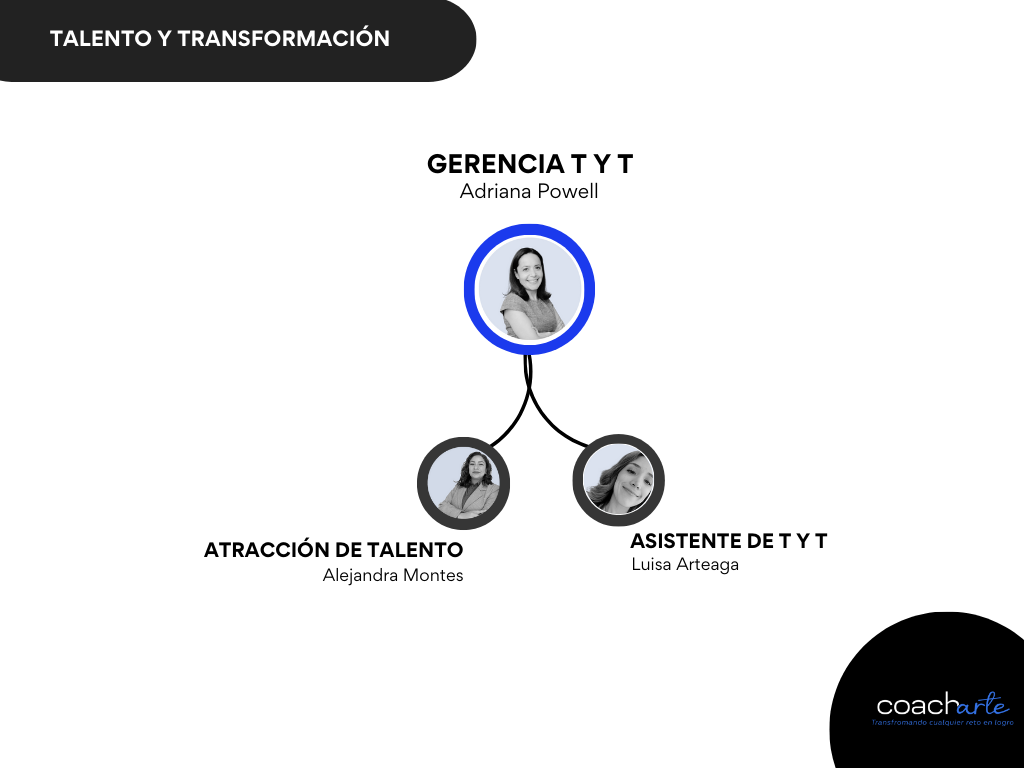
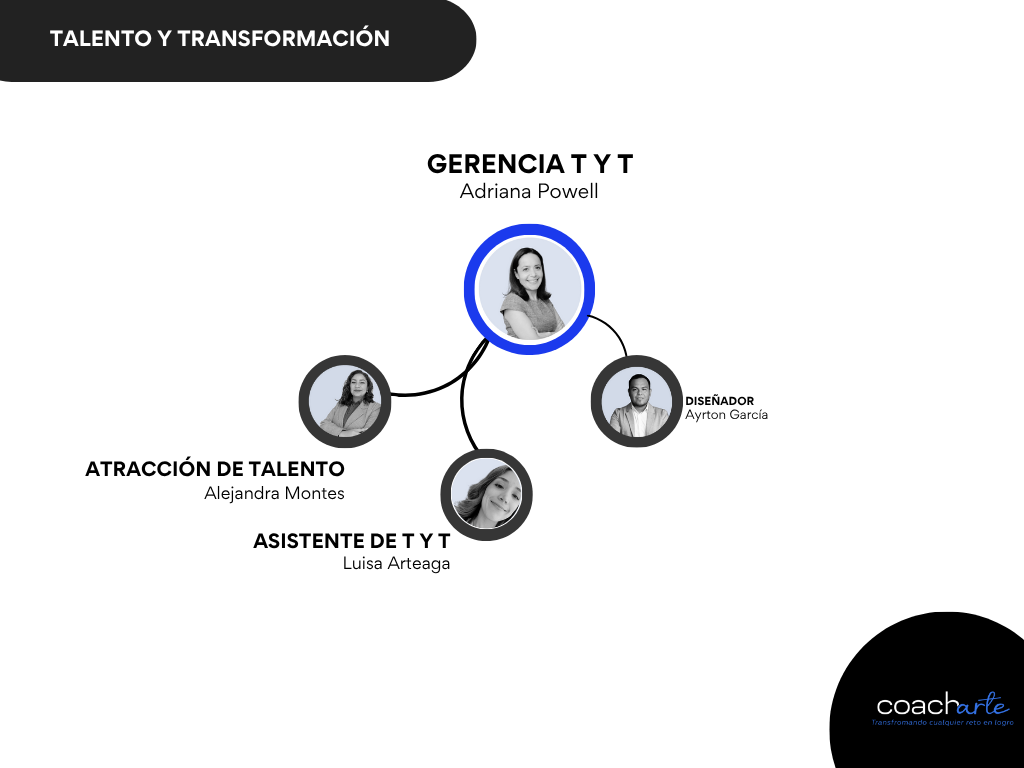
actualizacion de organigramas Octubre 2025

Changed region(s): [[0.0625, 0.4375, 0.5312, 0.7812], [0.5, 0.4375, 0.8125, 0.75]]

diff --git a/apps/frontend/src/app/organigrama/page.tsx b/apps/frontend/src/app/organigrama/page.tsx
@@ -39,56 +39,63 @@ const organigramas = [
     title: "Dirección General",
     description: "Estructura de la Dirección General liderada por Luis Pascual",
     image: "/assets/organigrama_1.png",
-    lastUpdate: "Septiembre 2025"
+    lastUpdate: "Octubre 2025"
   },
   {
     id: 2,
     title: "Talento y Transformación",
     description: "Departamento de T&T dirigido por Adriana Powell",
     image: "/assets/organigrama_2.png",
-    lastUpdate: "Septiembre 2025"
+    lastUpdate: "Octubre 2025"
   },
   {
     id: 3,
     title: "Cultura",
     description: "Área de Cultura con Brenda Cruz como Hacker de Cultura",
     image: "/assets/organigrama_3.png",
-    lastUpdate: "Septiembre 2025"
+    lastUpdate: "Octubre 2025"
   },
   {
     id: 4,
     title: "Account Manager - Manuel",
-    description: "Estructura del equipo de Manuel Guzmán",
+    description: "Estructura del equipo de Manuel Guzmán - Panamericano",
     image: "/assets/organigrama_4.png",
-    lastUpdate: "Septiembre 2025"
+    lastUpdate: "Octubre 2025"
   },
   {
     id: 5,
-    title: "Account Manager - Zair",
-    description: "Primer equipo dirigido por Zair Cortés",
-    image: "/assets/organigrama_5.png",
-    lastUpdate: "Septiembre 2025"
+    title: "Account Manager - Manuel 2",
+    description: "Estructura del equipo de Manuel Guzmán - Gentera",
+    image: "/assets/organigrama_4.png",
+    lastUpdate: "Octubre 2025"
   },
   {
     id: 6,
-    title: "Account Manager - Zair 2",
-    description: "Segundo equipo dirigido por Zair Cortés",
-    image: "/assets/organigrama_6.png",
-    lastUpdate: "Septiembre 2025"
+    title: "Account Manager - Zair",
+    description: "Primer equipo dirigido por Zair Cortés",
+    image: "/assets/organigrama_5.png",
+    lastUpdate: "Octubre 2025"
   },
   {
     id: 7,
-    title: "Account Manager - Ivette Balseca",
-    description: "Estructura del equipo de Ivette Balseca",
-    image: "/assets/organigrama_7.png",
-    lastUpdate: "Septiembre 2025"
+    title: "Account Manager - Zair 2",
+    description: "Segundo equipo dirigido por Zair Cortés",
+    image: "/assets/organigrama_6.png",
+    lastUpdate: "Octubre 2025"
   },
   {
     id: 8,
+    title: "Account Manager - Ivette Balseca",
+    description: "Estructura del equipo de Ivette Balseca",
+    image: "/assets/organigrama_7.png",
+    lastUpdate: "Octubre 2025"
+  },
+  {
+    id: 9,
     title: "Account Manager - Luis",
     description: "Estructura del equipo de Luis Pascual",
     image: "/assets/organigrama_8.png",
-    lastUpdate: "Septiembre 2025"
+    lastUpdate: "Octubre 2025"
   }
 ];
 
